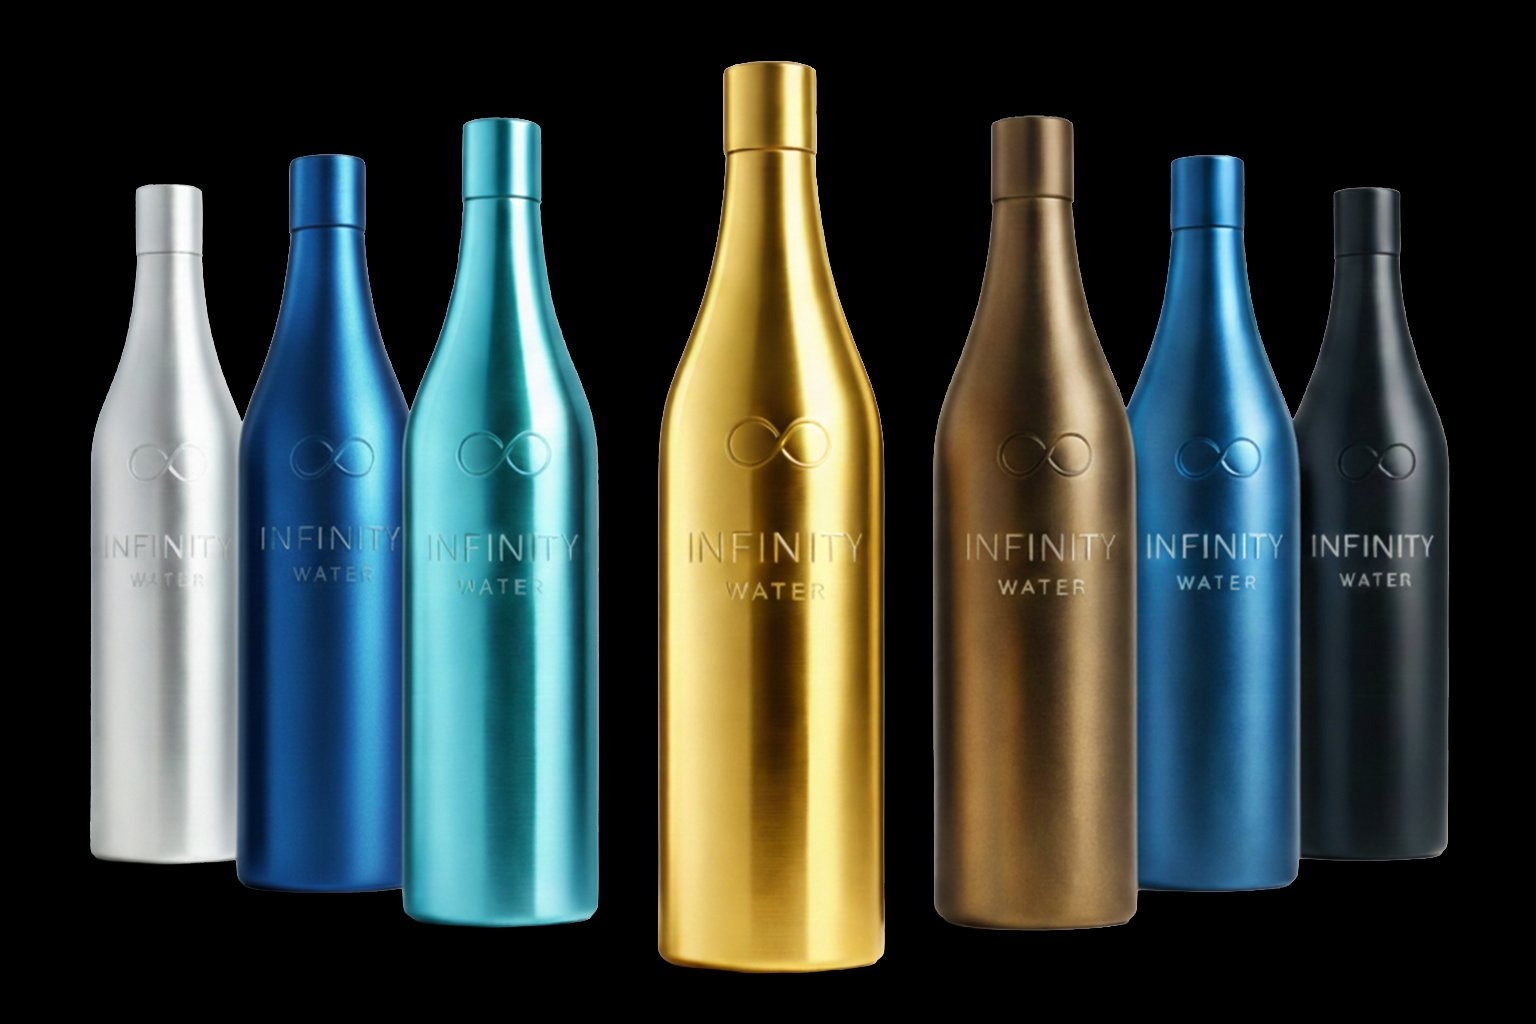
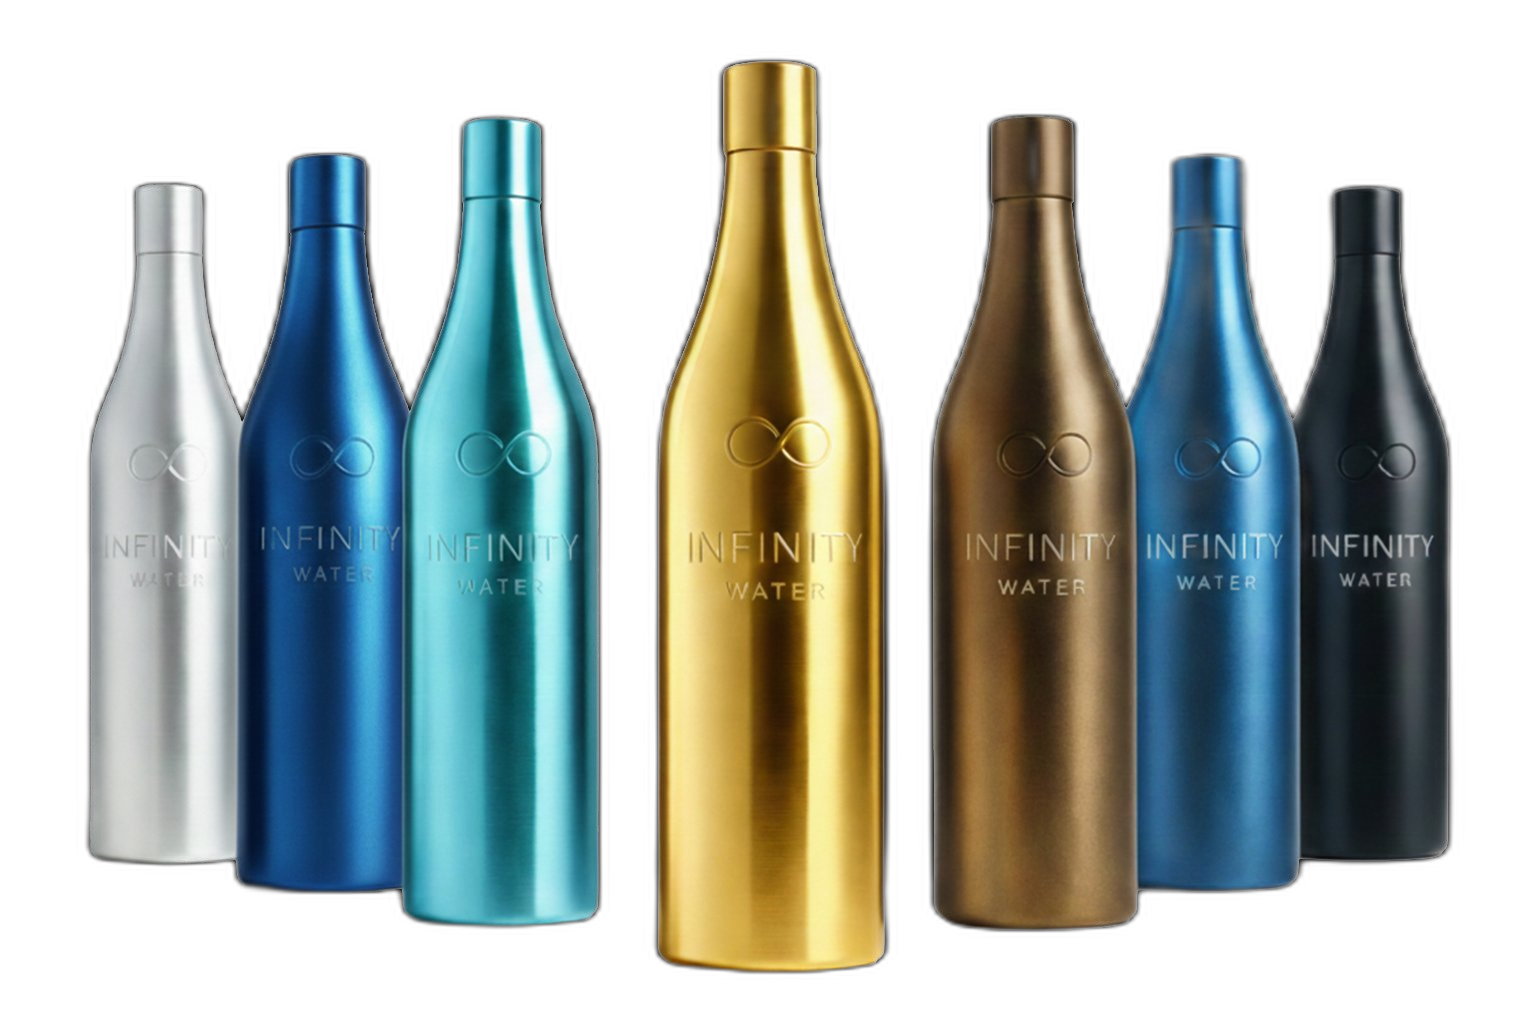
Fix: backgrounds removed from all bottles, jet photo moved to center in Everywhere That Matters, landing animation FULL SCREEN

diff --git a/src/app/page.tsx b/src/app/page.tsx
@@ -49,8 +49,8 @@ function VideoIntroHero(){
       pointerEvents:phase>=3?"none":"all"
     }}>
       <div style={{
-        width:phase>=2?"100vw":"clamp(260px,36vw,440px)",
-        height:phase>=2?"100vh":"clamp(180px,26vh,300px)",
+        width:"100vw",
+        height:"100vh",
         overflow:"hidden",transition:"all 1s cubic-bezier(0.16,1,0.3,1)",position:"relative",
       }}>
         <video autoPlay muted loop playsInline style={{width:"100%",height:"100%",objectFit:"cover",filter:"brightness(0.55) contrast(1.15) saturate(0.7)"}}>
@@ -238,7 +238,7 @@ function LuxuryContext(){return(
 <R delay={0.1}><p style={{fontFamily:"'DM Sans',sans-serif",fontSize:15,fontWeight:300,lineHeight:1.75,color:C.frost,opacity:0.45,maxWidth:420,marginBottom:52}}>Private aviation. Five-star suites. Yacht decks. The standard for premium hospitality worldwide.</p></R>
 </div>
 <div style={{display:"grid",gridTemplateColumns:"1fr 1fr 1fr",gap:3}}>
-{[{img:"/luxury-jet.png",label:"Private Aviation"},{img:"/luxury-hotel.png",label:"Five-Star Suites"},{img:"/luxury-jetbucket.png",label:"First Class"}].map((s,i)=>(<R key={s.label} delay={0.08*i}>
+{[{img:"/luxury-hotel.png",label:"Five-Star Suites"},{img:"/luxury-jet.png",label:"Private Aviation"},{img:"/luxury-jetbucket.png",label:"First Class"}].map((s,i)=>(<R key={s.label} delay={0.08*i}>
 <div style={{position:"relative",aspectRatio:"4/3",overflow:"hidden",WebkitMaskImage:"radial-gradient(ellipse 80% 75% at 50% 45%, black 45%, transparent 100%)",maskImage:"radial-gradient(ellipse 80% 75% at 50% 45%, black 45%, transparent 100%)"}}>
 <Image src={s.img} alt={s.label} fill style={{objectFit:"cover"}}/>
 <div style={{position:"absolute",bottom:0,left:0,right:0,padding:"48px 20px 16px",background:"linear-gradient(transparent,rgba(0,0,0,0.5))"}}><span style={{fontFamily:"'DM Mono',monospace",fontSize:9,letterSpacing:"0.28em",textTransform:"uppercase",color:C.ice,opacity:0.8}}>{s.label}</span></div>
